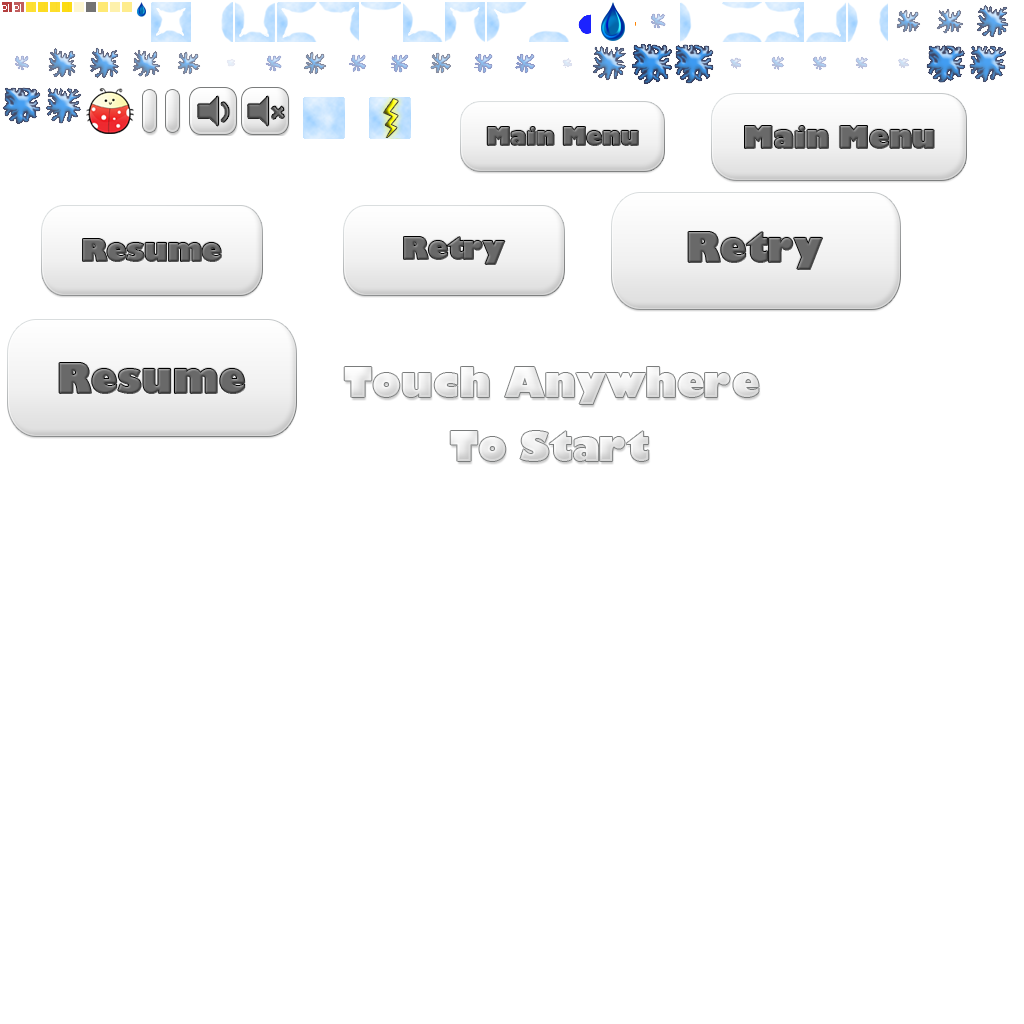
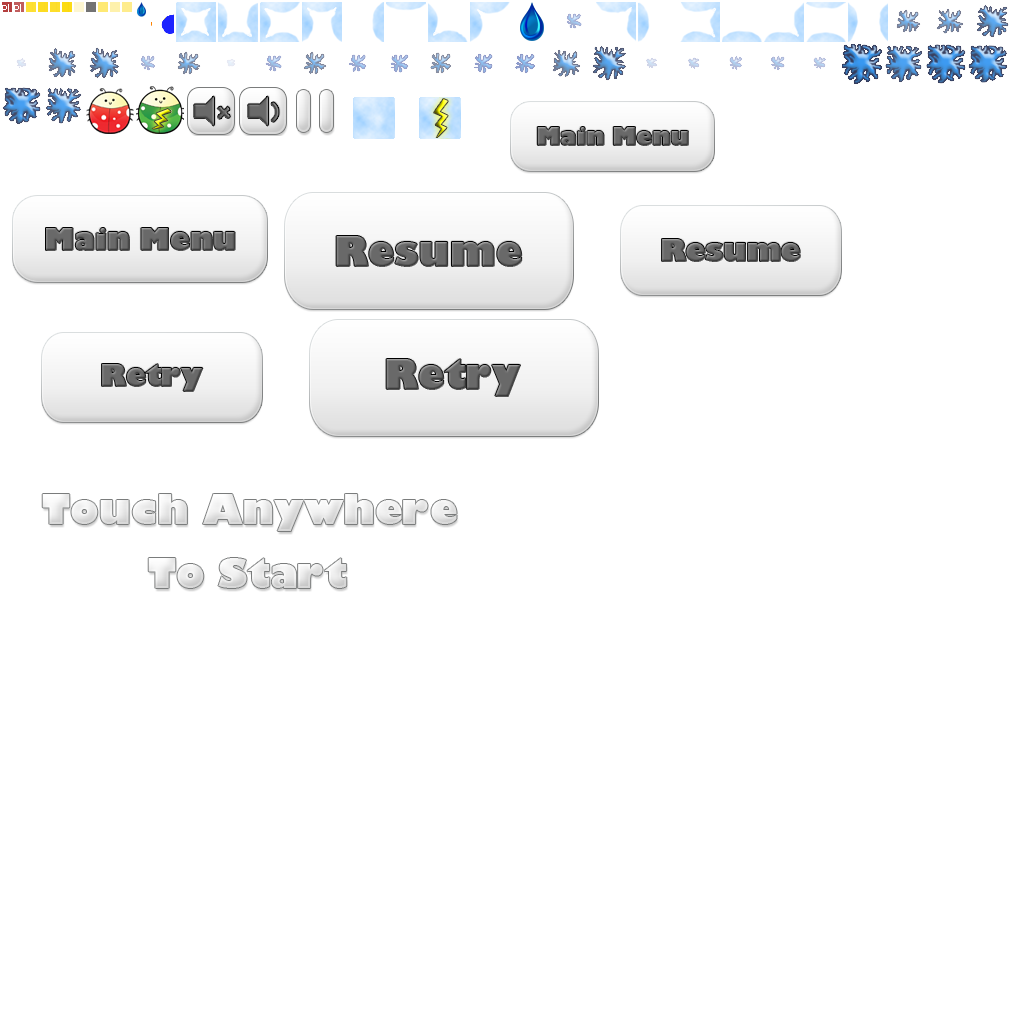
menu update 1, seeds

diff --git a/CloudHopper/src/com/jerhis/cloudgame/MainMenuScreen.java b/CloudHopper/src/com/jerhis/cloudgame/MainMenuScreen.java
@@ -8,6 +8,7 @@ import com.badlogic.gdx.graphics.GL10;
 import com.badlogic.gdx.graphics.OrthographicCamera;
 import com.badlogic.gdx.graphics.g2d.TextureAtlas;
 import com.badlogic.gdx.graphics.g2d.TextureAtlas.AtlasRegion;
+import com.badlogic.gdx.graphics.glutils.ShapeRenderer;
 import com.badlogic.gdx.math.Vector3;
 
 public class MainMenuScreen implements Screen, InputProcessor {
@@ -19,10 +20,11 @@ public class MainMenuScreen implements Screen, InputProcessor {
 	AtlasRegion bg, controlTilt, controlTouch, sliderBG, sliderBar, blackOverlay, loading, tutImage, tutImagePushed, musicIm[] = new AtlasRegion[2];
 
     float slider;
-    boolean sliderTouch = false;
-    boolean soundOn;
-	boolean leaving = false, readyToLeave = false, shouldPlayTutorial = false, shouldReturnToMenu = false;
+    boolean sliderTouch = false, soundOn;
+	boolean leaving, readyToLeave, shouldPlayTutorial , shouldReturnToMenu;
     Music gameMusic;
+    boolean stateSettings, stateGPS;
+    ButtonSet mainButtons, gpsButtons, settingsButtons;
  
 	public MainMenuScreen(final MyGdxGame gam, Music music) {
 		game = gam;
@@ -30,6 +32,12 @@ public class MainMenuScreen implements Screen, InputProcessor {
  
 		camera = new OrthographicCamera();
 		camera.setToOrtho(false, 800, 480);
+        stateGPS = false;
+        stateSettings = false;
+        leaving = false;
+        readyToLeave = false;
+        shouldPlayTutorial = false;
+        shouldReturnToMenu = false;
 
 		textures = new TextureAtlas("menuimages.txt");
 		bg = textures.findRegion("menubg");
@@ -43,6 +51,13 @@ public class MainMenuScreen implements Screen, InputProcessor {
         tutImagePushed = textures.findRegion("pushedtutorial");
         musicIm[0] = textures.findRegion("musicon");
         musicIm[1] = textures.findRegion("musicoff");
+
+        mainButtons = new ButtonSet();
+        mainButtons.addButton(tutImage, tutImagePushed, 725, 415);
+        mainButtons.addButton(tutImage, tutImagePushed, 575, 415);
+
+        settingsButtons = new ButtonSet();
+        settingsButtons.addButton(tutImage, tutImagePushed, 700, 480-125/2);
 
         slider = game.slider;
         soundOn = game.sound;
@@ -73,18 +88,49 @@ public class MainMenuScreen implements Screen, InputProcessor {
  
 		game.batch.begin();
 		//game.font.draw(game.batch, "Welcome to Drop!!! ", 100, 150);
-		game.batch.draw(bg, 0, 0);
-		if (game.tiltControls)
-			game.batch.draw(controlTilt, 800-185, 0);
-		else game.batch.draw(controlTouch, 800-185, 0);
-        game.batch.draw(sliderBG, 50, 0);
-        game.batch.draw(sliderBar, 50 + 500*(slider - 0.5f) - 25, 0);
+        game.batch.draw(bg, 0, 0);
+        if (stateGPS) {
+            game.font.draw(game.batch, "Back Arrow", 100, 150);
+            game.font.draw(game.batch, "LEaderboard", 100, 150);
+            game.font.draw(game.batch, "Achievements", 100, 150);
+            game.font.draw(game.batch, "Sign In/ Sign Out", 100, 150);
+        }
+        else if (stateSettings) {
+            game.font.draw(game.batch, "Settings", 300, 430);
+            game.font.draw(game.batch, "Back Arrow, 50x50", 20, 460);
+            //game.batch.draw(backArrow, 20,410);
+            game.font.draw(game.batch, "Music:", 100, 350);
+            game.batch.draw(musicIm[game.sound ? 0 : 1],250,300);
+            //game.font.draw(game.batch, "tutorial", 100, 150);
+            settingsButtons.draw(game.batch);
+            game.font.draw(game.batch, "Controls:", 100, 250);
+            if (game.tiltControls) game.batch.draw(controlTilt, 300, 150);
+            else game.batch.draw(controlTouch, 300, 150);
+            //game.font.draw(game.batch, "sensitivity", 100, 150);
+            game.batch.draw(sliderBG, 400 - sliderBG.getRegionWidth()/2, 0);
+            game.batch.draw(sliderBar, 400 - sliderBG.getRegionWidth()/2 + 500*(slider - 0.5f) - 25, 0);
+        }
+        else {
+            game.font.draw(game.batch, "tap to play", 100, 120);
+            //game.font.draw(game.batch, "high score/ games playaed", 100, 150);
+            game.font.draw(game.batch, "Games Played: " + game.gamesPlayed, 10, 490);
+            game.font.draw(game.batch, "Best: " + game.highScore, 10, 460);
+            //game.font.draw(game.batch, "gps", 100, 150);
+            //game.font.draw(game.batch, "settings", 100, 150);
+            mainButtons.draw(game.batch);
+            game.font.draw(game.batch, "remove ads?", 100, 150);
+        }
 
-        game.font.draw(game.batch, "Games Played: " + game.gamesPlayed, 10, 490);
-        game.font.draw(game.batch, "Best: " + game.highScore, 10, 460);
+		//if (game.tiltControls)
+		//	game.batch.draw(controlTilt, 800-185, 0);
+		//else game.batch.draw(controlTouch, 800-185, 0);
+        //game.batch.draw(sliderBG, 50, 0);
+        //game.batch.draw(sliderBar, 50 + 500*(slider - 0.5f) - 25, 0);
 
-        game.batch.draw(tutImage, 800-185,380-25);
-        game.batch.draw(musicIm[game.sound ? 0 : 1],800-50-185-10,480-50);
+
+
+        //game.batch.draw(tutImage, 800-185,380-25);
+        //game.batch.draw(musicIm[game.sound ? 0 : 1],800-50-185-10,480-50);
 
         if (readyToLeave) {
             game.batch.draw(blackOverlay,-100,-100,0,0,10,10,100,68,0);
@@ -93,7 +139,7 @@ public class MainMenuScreen implements Screen, InputProcessor {
 
 		game.batch.end();
 		
-		if (leaving)
+		if (leaving) {
             if (shouldPlayTutorial) {
                 game.setScreen(new TutorialScreen(game, shouldReturnToMenu, gameMusic));
                 dispose();
@@ -102,10 +148,27 @@ public class MainMenuScreen implements Screen, InputProcessor {
                 game.setScreen(new GameScreen(game, gameMusic));
                 dispose();
             }
+        }
+        if (readyToLeave) leaving = true;
 
 
+        game.shapeRenderer.begin(ShapeRenderer.ShapeType.Line);
+        game.shapeRenderer.setColor(1,0.5f,0,1);
+        if (stateGPS) {
 
-        leaving = readyToLeave;
+        }
+        else if (stateSettings) {
+            game.shapeRenderer.rect(20,410,50,50);
+        }
+        else {
+
+        }
+        game.shapeRenderer.setColor(0,1,0,1);
+        int xw = 50, yw = 50;
+        for (int xx = 0; xx < 800; xx+=xw)
+            for (int yy = 0; yy < 480; yy+= yw)
+                game.shapeRenderer.rect(xx,yy,xw,yw);
+        game.shapeRenderer.end();
 		
 	}
  
@@ -123,10 +186,15 @@ public class MainMenuScreen implements Screen, InputProcessor {
  
 	@Override
 	public void pause() {
+        if (game.sound) {
+            gameMusic.pause();
+        }
 	}
  
 	@Override
 	public void resume() {
+        if (game.sound)
+            gameMusic.play();
 	}
  
 	@Override
@@ -161,33 +229,34 @@ public class MainMenuScreen implements Screen, InputProcessor {
         //game.batch.draw(tutImage, 800-185,380-25);
         //game.batch.draw(musicIm[game.sound ? 0 : 1],800-50-185-10,480-50);
 
-        if (x > 800-50-185-10-10 && x <= 800-185 && y> 430) {
-            sound();
+        if (stateGPS) {
+
         }
-		else if (x > 800-175 && y < 125) {
-			game.setControls(!game.tiltControls);
-		}
-        else if (x>800-10-175 && y > 480-125) {
-            shouldPlayTutorial = true;
-            shouldReturnToMenu = true;
-            game.setSeenTutorial(true);
-            readyToLeave = true;
-        }
-        else if (y < 125 && (x >= 25 || x <= 575) ) {
-            slider = x;
-            slider = slider < 50 ? 50 : slider;
-            slider = slider > 550 ? 550 : slider;
-            slider = (slider - 50.0f) / 500.0f + 0.5f;
-            slider = slider < 1.05f && slider > 0.95f ? 1 : slider;
-            sliderTouch = true;
-        }
-		else {
-			readyToLeave = true;
-            if (!game.seenTutorial) {
-                shouldPlayTutorial = true;
-                shouldReturnToMenu = false;
-                game.setSeenTutorial(true);
+        else if (stateSettings) {
+            settingsButtons.touchDown(x,y);
+            if (x < 90 && y > 390) stateSettings = false;
+            if (x > 230 && x < 320 && y > 280 && y < 370) sound();
+            if (x > 300 && x < 470 && y > 150 && y < 280) game.setControls(!game.tiltControls);
+            if (y < 125 && (x >= 100 && x <= 700) ) {
+                slider = x;
+                int min = 400 - sliderBG.getRegionWidth()/2;
+                slider = slider < min ? min : slider;
+                slider = slider > min + 500 ? min + 500 : slider;
+                slider = (slider - min) / 500.0f + 0.5f;
+                slider = slider < 1.05f && slider > 0.95f ? 1 : slider;
+                sliderTouch = true;
             }
+        }
+        else {
+            if (y < 350 || x < 500) {
+                readyToLeave = true;
+                if (!game.seenTutorial) {
+                    shouldPlayTutorial = true;
+                    shouldReturnToMenu = false;
+                    game.setSeenTutorial(true);
+                }
+            }
+            mainButtons.touchDown(x,y);
         }
 		
 		return false;
@@ -199,9 +268,31 @@ public class MainMenuScreen implements Screen, InputProcessor {
 		camera.unproject(pos);
 		int x = (int) pos.x, y = (int) pos.y;
 
-        if (sliderTouch && y < 125 && x < 625) {
-            game.setSlider(slider);
-            sliderTouch = false;
+        if (stateGPS) {
+
+        }
+        else if (stateSettings) {
+            settingsButtons.touchUp(x,y);
+            switch (settingsButtons.pollClick()) {
+                case 0: shouldPlayTutorial = true;
+                    shouldReturnToMenu = true;
+                    game.setSeenTutorial(true);
+                    readyToLeave = true; break;
+                case -1: break;
+            }
+            if (sliderTouch && y <= 130) {
+                game.setSlider(slider);
+                sliderTouch = false;
+            }
+        }
+        else {
+            mainButtons.touchUp(x,y);
+            switch (mainButtons.pollClick()) {
+                case 0: stateSettings = true; break;
+                case 1: stateGPS = true; break;
+                case -1: break;
+            }
+
         }
 				
 		return false;
@@ -213,16 +304,27 @@ public class MainMenuScreen implements Screen, InputProcessor {
 		camera.unproject(pos);
 		int x = (int) pos.x, y = (int) pos.y;
 
-        if (sliderTouch && y < 125 && x < 625) {
-            slider = x;
-            slider = slider < 50 ? 50 : slider;
-            slider = slider > 550 ? 550 : slider;
-            slider = (slider - 50.0f) / 500.0f + 0.5f;
-            slider = slider < 1.05f && slider > 0.95f ? 1 : slider;
+        if (stateGPS) {
+
         }
-        else if (sliderTouch) {
-            game.setSlider(slider);
-            sliderTouch = false;
+        else if (stateSettings) {
+            settingsButtons.touchDragged(x,y);
+            if (sliderTouch && y < 125) {
+                slider = x;
+                int min = 400 - sliderBG.getRegionWidth()/2;
+                slider = slider < min ? min : slider;
+                slider = slider > 500 + min ? 500 + min : slider;
+                slider = (slider - min) / 500.0f + 0.5f;
+                slider = slider < 1.05f && slider > 0.95f ? 1 : slider;
+            }
+            else if (sliderTouch) {
+                game.setSlider(slider);
+                sliderTouch = false;
+            }
+        }
+        else {
+            mainButtons.touchDragged(x,y);
+
         }
 		
 		return false;

diff --git a/CloudHopper/src/com/jerhis/cloudgame/MyGdxGame.java b/CloudHopper/src/com/jerhis/cloudgame/MyGdxGame.java
@@ -5,11 +5,13 @@ import com.badlogic.gdx.Gdx;
 import com.badlogic.gdx.Preferences;
 import com.badlogic.gdx.graphics.g2d.BitmapFont;
 import com.badlogic.gdx.graphics.g2d.SpriteBatch;
+import com.badlogic.gdx.graphics.glutils.ShapeRenderer;
 
 public class MyGdxGame extends Game {
 
     PlatformHandler platformHandeler;
     SpriteBatch batch;
+    ShapeRenderer shapeRenderer;
 	BitmapFont font;
 	Preferences prefs;
 	CloudGame g;
@@ -37,6 +39,7 @@ public class MyGdxGame extends Game {
 	public void create() {
 		
 		batch = new SpriteBatch();
+        shapeRenderer = new ShapeRenderer();
 		// Use LibGDX's default Arial font.
 		font = new BitmapFont(Gdx.files.internal("myfont.fnt"));
 		//font.setColor(new Color(0,1,0,1));
@@ -141,6 +144,15 @@ public class MyGdxGame extends Game {
     public int ad(int k) {
         return platformHandeler.ad(k);
     }
+
+    public int leaderboard(int k) {
+        return 0;
+    }
+
+    public int achievement(int k) {
+        return 0;
+    }
+
  
 	public void render() {
 		super.render(); // important!

diff --git a/CloudHopper/src/com/jerhis/cloudgame/game/ControllerOfTiles.java b/CloudHopper/src/com/jerhis/cloudgame/game/ControllerOfTiles.java
@@ -12,6 +12,7 @@ public class ControllerOfTiles {
 	
 	public ArrayList<Tile> tiles;
 	public int gameType;
+    public long seed;
     Random random;
 	ArrayList<GameObject> gameObjects;
     ArrayList<Background> backgrounds;
@@ -31,10 +32,9 @@ public class ControllerOfTiles {
 		tiles.clear();
         backgrounds.clear();
 		gameType = gT;
-        if (gT == -1)
-            random = new Random(15994);
-        else
-            random = new Random((int)(Math.random()*1000000000));
+        seed = System.currentTimeMillis() / 10000;
+        if (gT == -1) seed = 15994;
+        random = new Random(seed);
 		spawnStart();
         startSpawnBackground();
 	}

diff --git a/CloudHopper/src/com/jerhis/cloudgame/GameScreen.java b/CloudHopper/src/com/jerhis/cloudgame/GameScreen.java
@@ -68,7 +68,7 @@ public class GameScreen implements Screen, InputProcessor {
         rain15 = textures.findRegion("rain15");
 		basic0 = textures.findRegion("basic0");
 		super0 = textures.findRegion("super");
-		redChaser = textures.findRegion("guyred");
+		redChaser = textures.findRegion("bug");
         lighthalf = textures.findRegion("lightninghalf");
         lightline = textures.findRegion("lightningline");
 		for (int k = 1; k < 16; k++)
